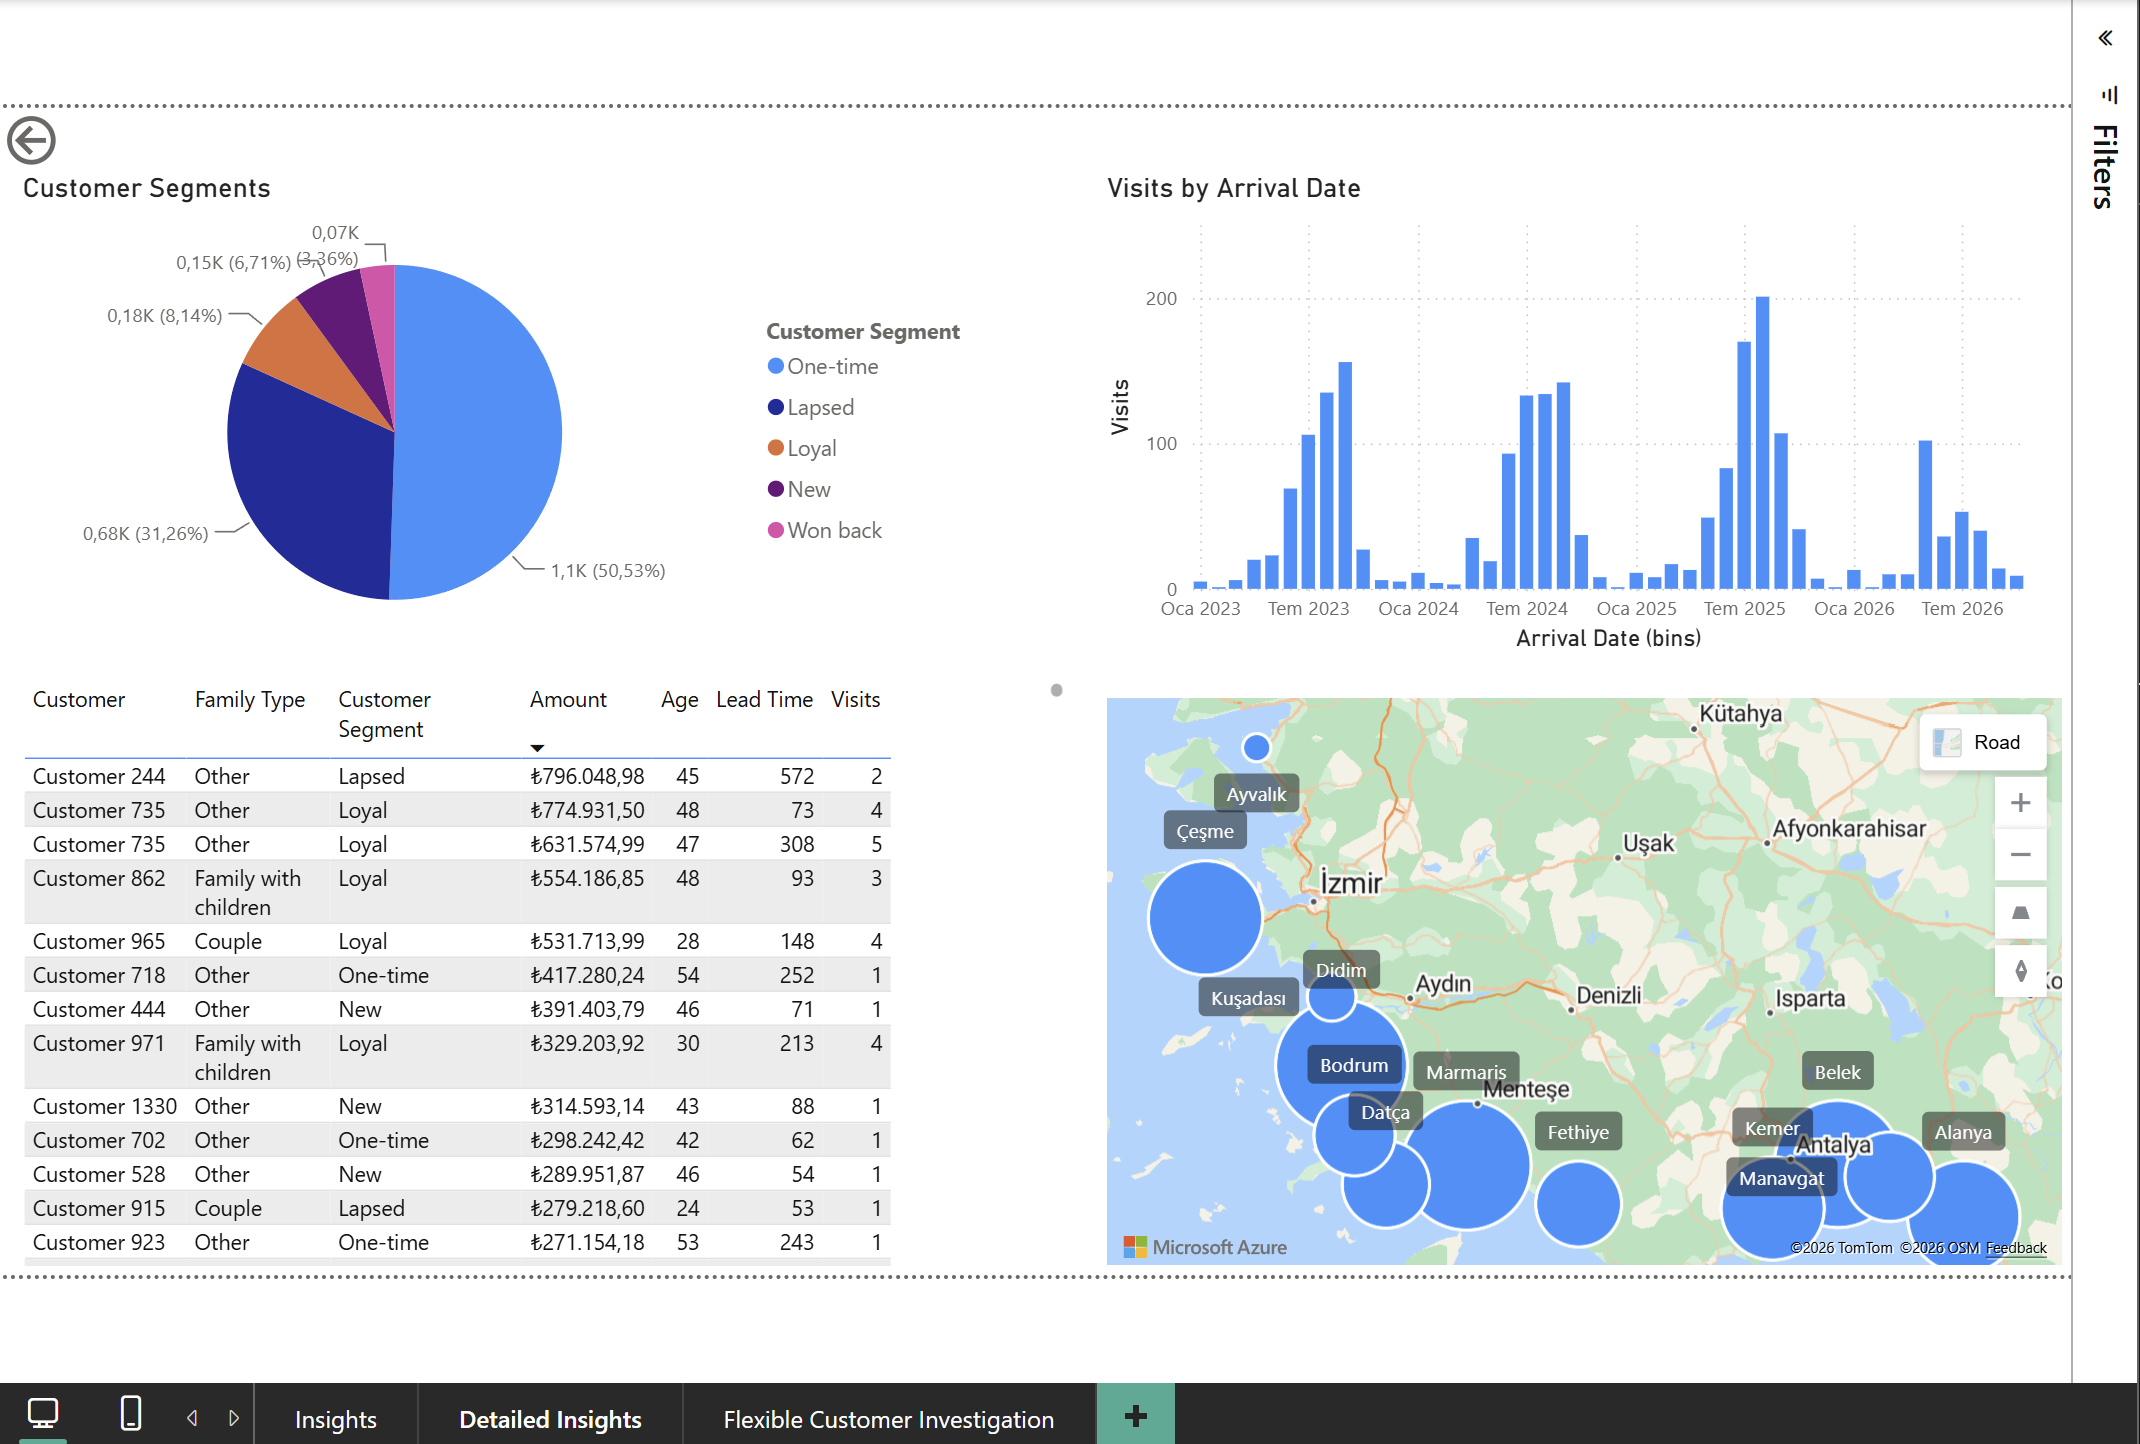
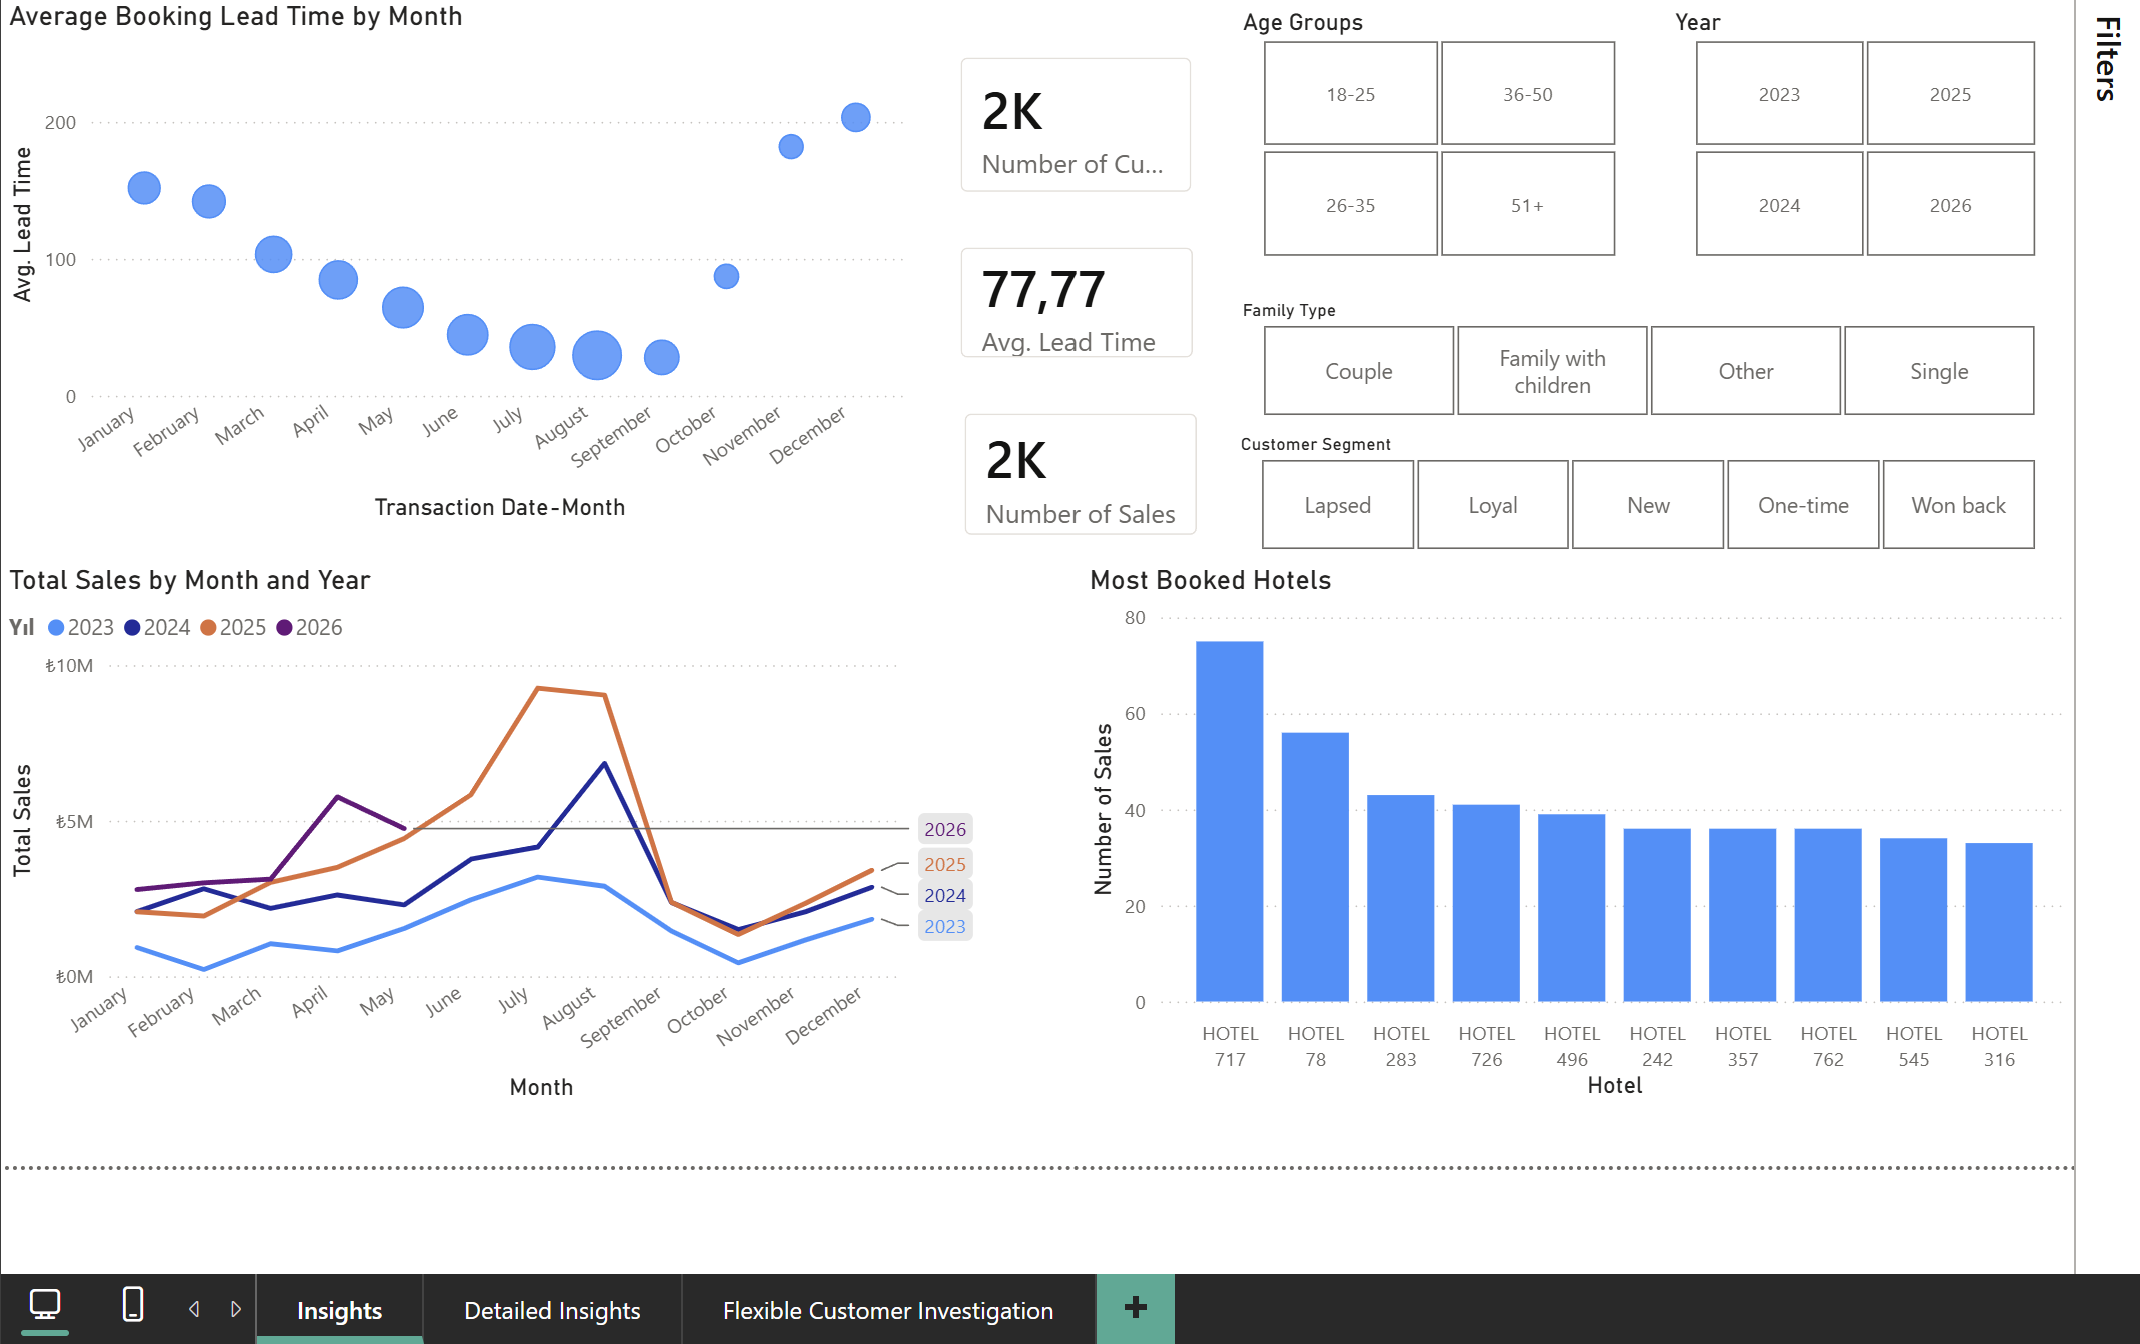
docs: use the selected dashboard cover

diff --git a/README.md b/README.md
@@ -2,7 +2,7 @@
 
 ![Dashboard](assets/dashboard.png)
 
-*Detailed Insights — anonymized dashboard preview. [View all dashboard pages](docs/dashboard.md).*
+*Insights — booking lead time, customer lifecycle filters, and seasonal sales. [View all dashboard pages](docs/dashboard.md).*
 
 [Run the public demo](#run-the-public-demo) — synthetic sample data, no private files or API key required.
 
